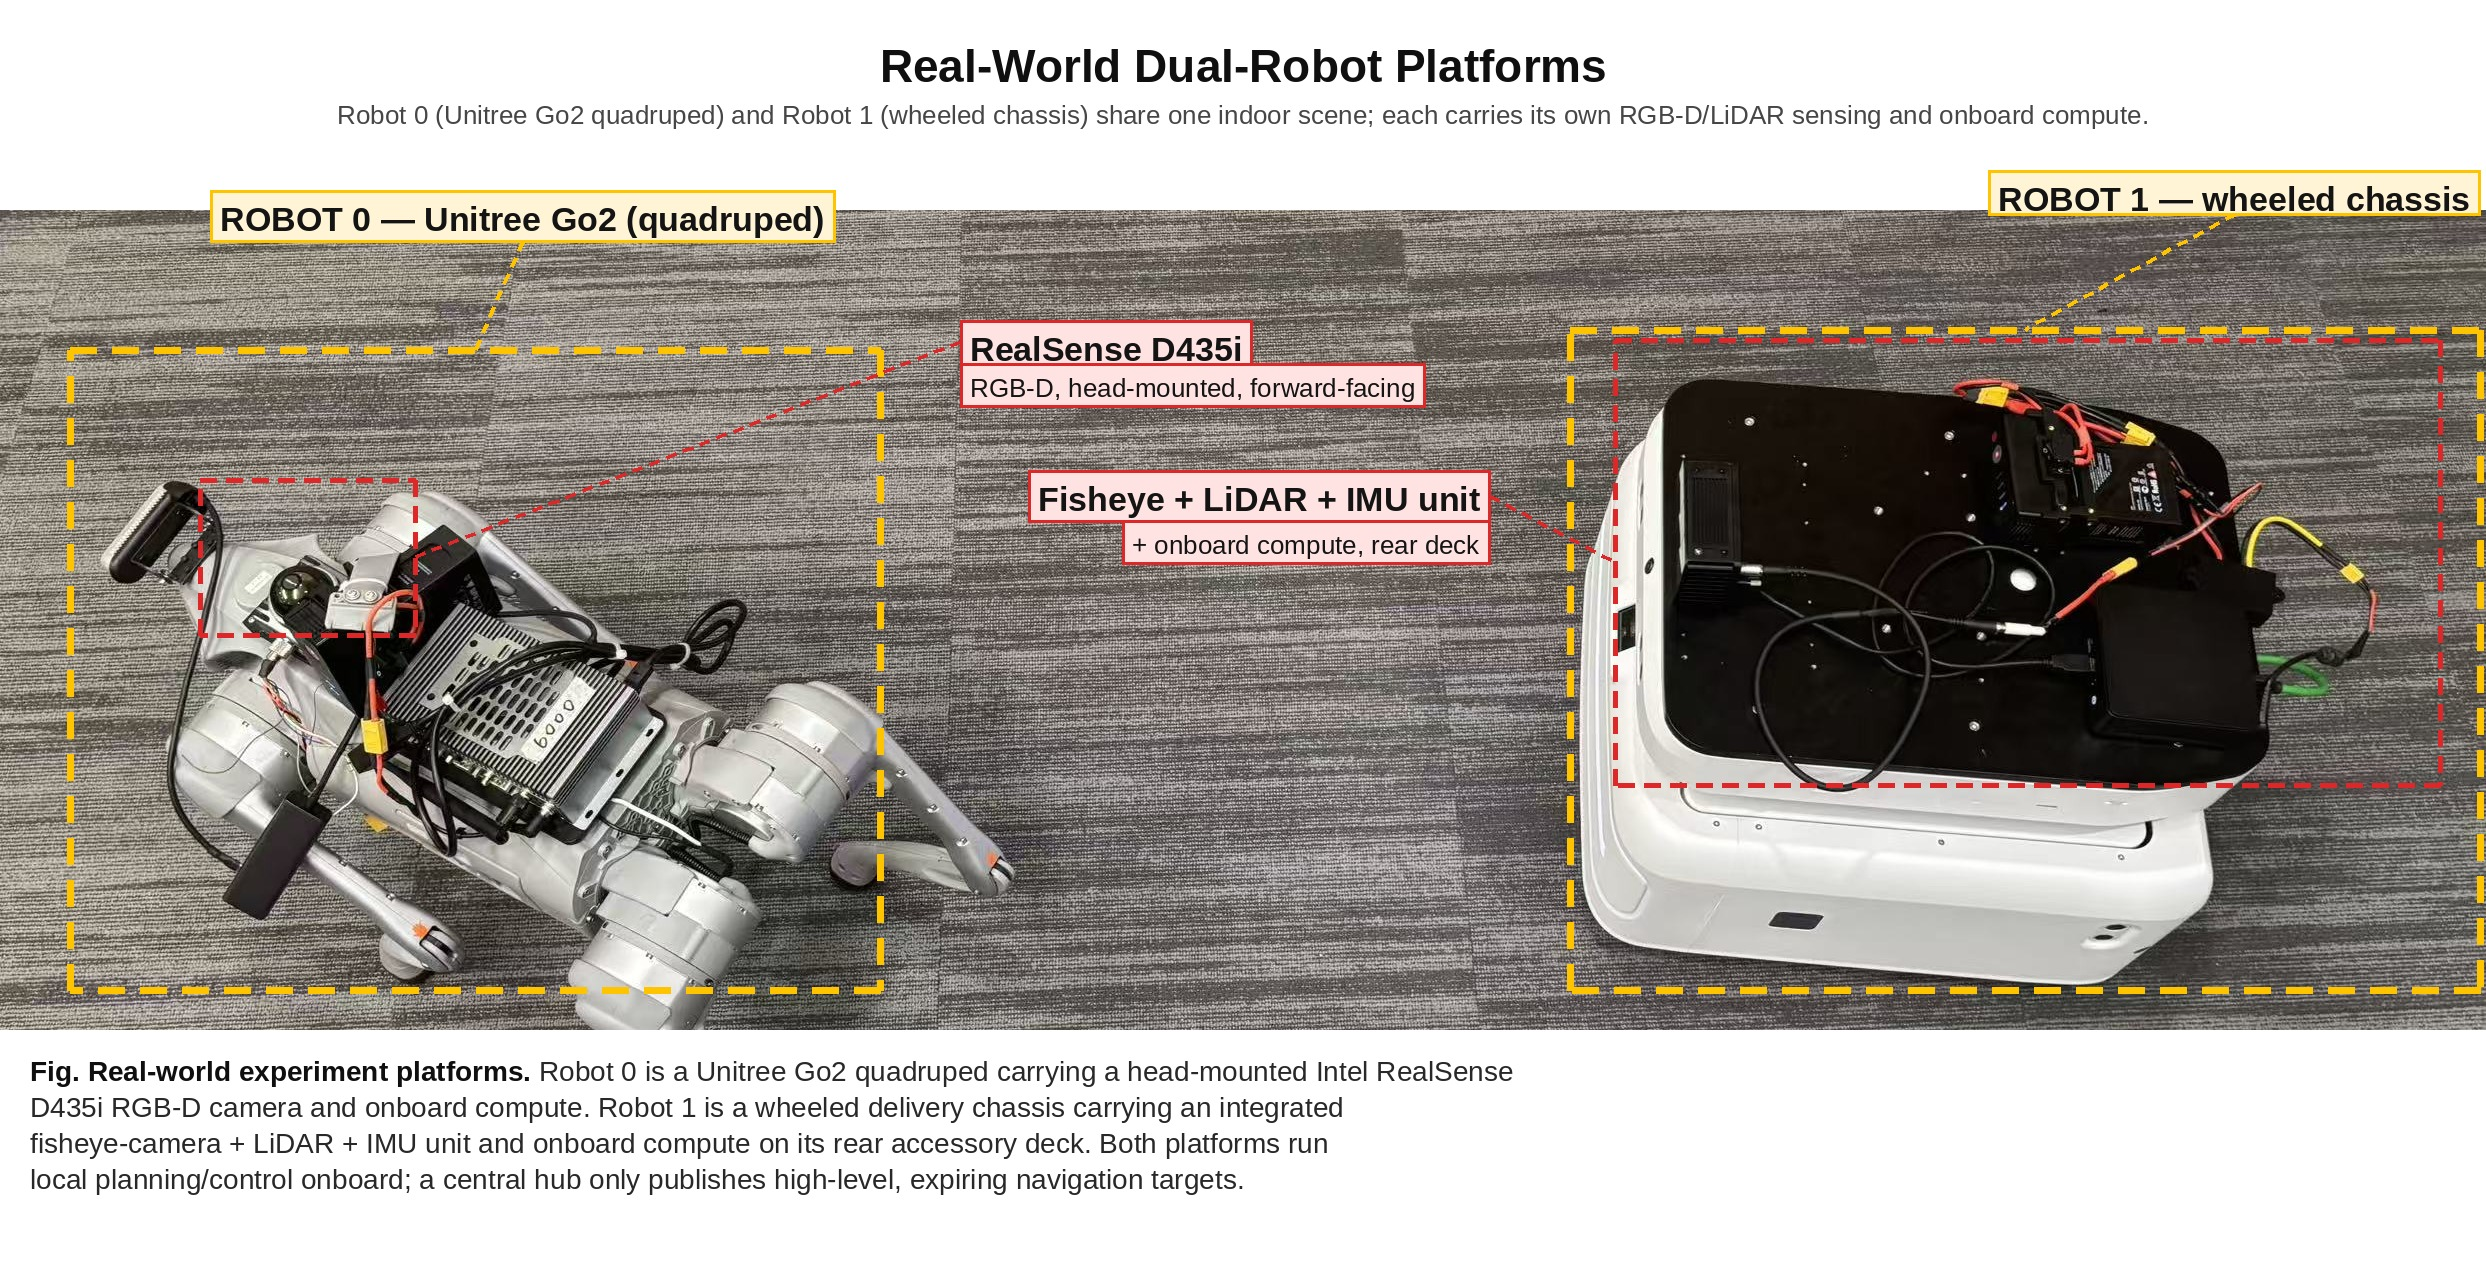
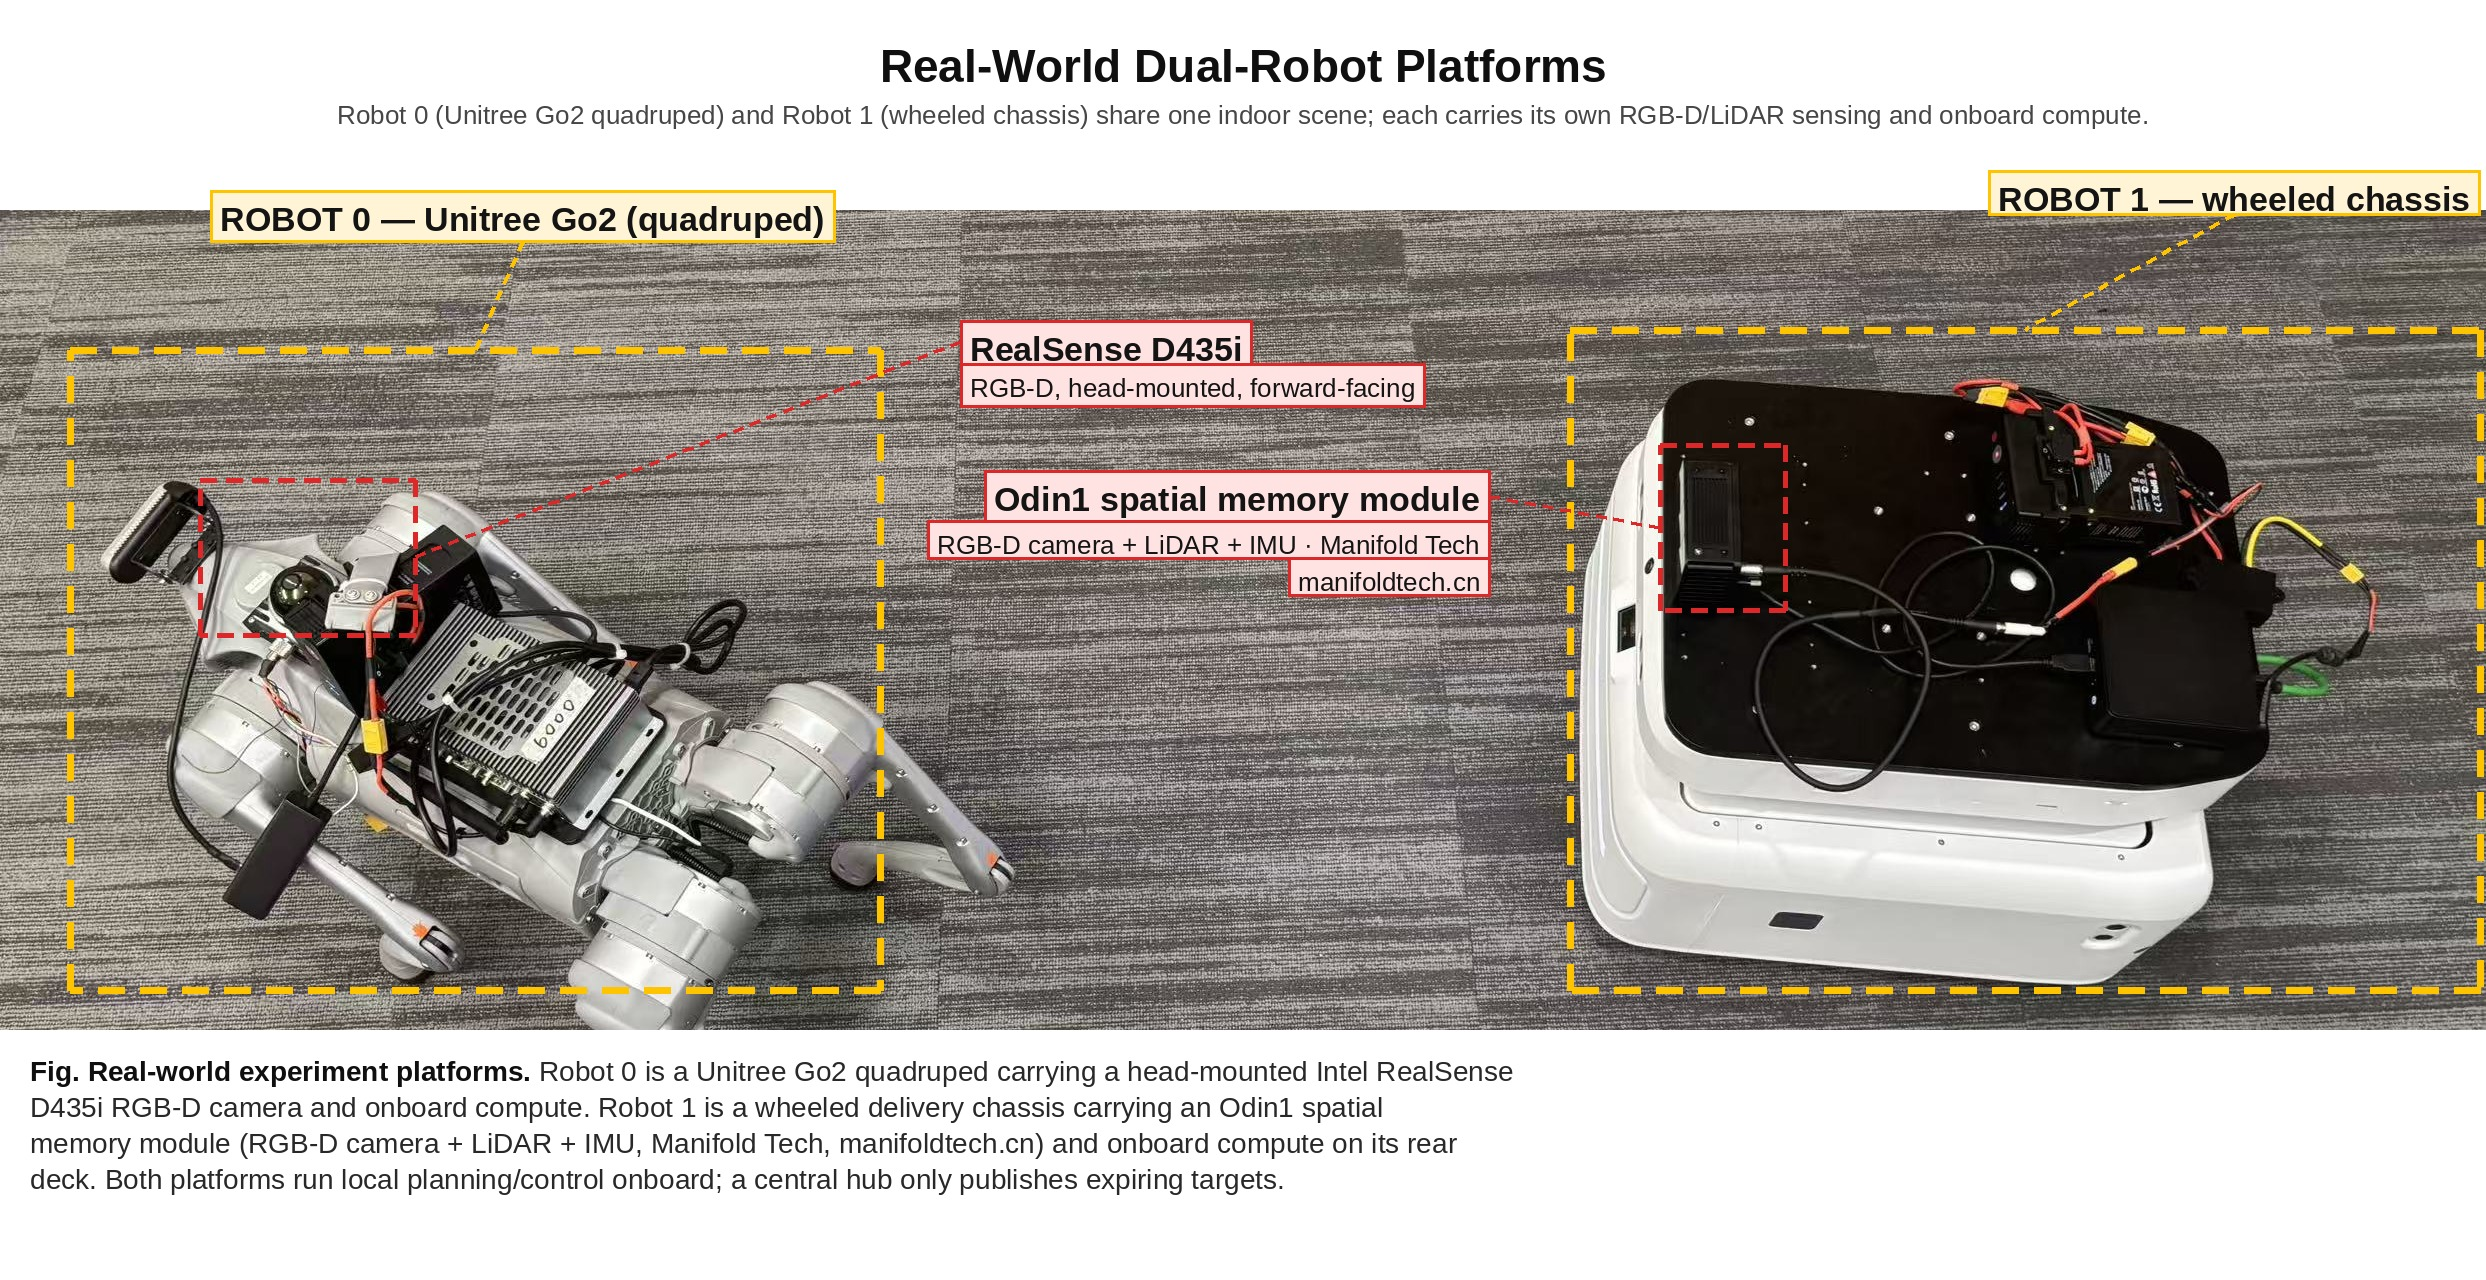
Correct Robot 1 sensor ID, add calibration figure, translate README
Point the Robot 1 callout at the specific Odin1 spatial memory module
(RGB-D camera + LiDAR + IMU, Manifold Tech) instead of the whole rear
deck, and drop the inaccurate "fisheye" description. Add a new
cross-robot calibration figure explaining the two-position
circle-grid board procedure. Translate the README fully to English.

diff --git a/README.md b/README.md
@@ -1,32 +1,51 @@
 # TopoFocus Real-World
 
-TopoFocus 的双机器人真机系统：GPU Hub 负责在线地图、语义理解、VLM
-决策与高层协调，Robot 0 和 Robot 1 在本地完成规划、控制与安全停止。
+TopoFocus's real-world dual-robot system: a GPU hub handles online mapping,
+semantic understanding, VLM decisions and high-level coordination, while
+Robot 0 and Robot 1 handle planning, control and safety stops locally.
 
-## 实验平台与设备
+## Experiment platforms and equipment
 
 <p align="center">
-  <img src="media/image/platforms_annotated.jpg" width="900" alt="Real-world dual-robot platforms: Robot 0 (Unitree Go2) with RealSense D435i, Robot 1 wheeled chassis with Odin1 fisheye+LiDAR+IMU">
+  <img src="media/image/platforms_annotated.jpg" width="900" alt="Real-world dual-robot platforms: Robot 0 (Unitree Go2) with RealSense D435i, Robot 1 wheeled chassis with an Odin1 spatial memory module">
 </p>
 
-- **Robot 0**：Unitree Go2 四足底盘（可复现的商用平台），头部前向搭载
-  Intel RealSense D435i RGB-D 相机与机载计算单元，用于实时建图与局部规划。
-- **Robot 1**：轮式配送底盘，后部搭载 Odin1 鱼眼相机 + 激光雷达 + IMU
-  一体式传感单元与机载计算单元。
-- 两台机器人均在本地完成路径规划、速度控制与安全停止；GPU Hub 只发布
-  带过期时间的高层语义导航目标，不直接下发底层速度指令。
+- **Robot 0**: a Unitree Go2 quadruped chassis (a reproducible commercial
+  platform), carrying a head-mounted, forward-facing Intel RealSense D435i
+  RGB-D camera and onboard compute for real-time mapping and local planning.
+- **Robot 1**: a wheeled delivery chassis, carrying an
+  [Odin1 spatial memory module](https://www.manifoldtech.cn/) (RGB-D camera
+  + LiDAR + IMU, by Manifold Tech) and onboard compute on its rear deck.
+- Both robots run path planning, velocity control and safety stops locally;
+  the GPU hub only publishes high-level, expiring semantic navigation
+  targets and never issues low-level velocity commands.
+
+## Cross-robot calibration
+
+<p align="center">
+  <img src="media/image/calibration_annotated.jpg" width="900" alt="Shared cross-robot calibration using a circle-grid board">
+</p>
+
+With both robots stationary, each robot's own camera captures one shared
+7×10 symmetric circle-grid board (40 mm spacing) and solves its pose by
+PnP; the two per-camera poses compose into a fixed transform between the
+robots' camera frames, registering their local odometry into one shared
+frame. The board is then moved by at least 10 cm or rotated by at least 5°
+and re-observed as an independent holdout — the calibration is accepted
+only if it also explains this second, independently moved observation.
 
 ## Scene 01 · Chair
 
-两台机器人从同一实验室起始区域协同探索并到达白色椅子。五次正式实验均
-成功。
+Both robots explore cooperatively from the same lab starting area and reach
+a white chair. All five formal experiments succeeded.
 
 | Trials | Success | SR | Mean source-compatible SPL | Mean Standard SPL |
 | ---: | ---: | ---: | ---: | ---: |
 | `5` | `5` | `1.0` | `0.726088` | `0.780993` |
 
-Standard SPL 使用独立测量的最短可行路径 `L≈3.25 m`；source-compatible
-SPL 使用成功机器人的起终点位移 `D` 作为源码兼容参考。
+Standard SPL uses the independently measured shortest feasible path
+`L≈3.25 m`; source-compatible SPL uses the arriving robot's start-to-arrival
+displacement `D` as a source-compatible reference.
 
 ### Real-robot rollouts
 
@@ -38,8 +57,9 @@ SPL 使用成功机器人的起终点位移 `D` 作为源码兼容参考。
       <img src="media/demo/scene01_formal_01_preview.gif" width="440" alt="Formal 01 rollout"><br>
       <small>Dashboard</small><br>
       <img src="media/demo/scene01_formal_01_dashboard.gif" width="440" alt="Formal 01 dashboard"><br>
-      Robot 0 先探索前沿，随后切换至 chair 语义区域并自动 ARRIVED；Robot 1
-      沿独立前沿推进后同步 HOLD。<br>
+      Robot 0 explores a frontier first, then switches to the chair semantic
+      region and auto-ARRIVED; Robot 1 advances along an independent
+      frontier and HOLDs in sync.<br>
       <a href="media/demo/scene01_formal_01_third_view.mp4">Third view</a> ·
       <a href="media/demo/scene01_formal_01_dashboard.mp4">Dashboard</a>
     </td>
@@ -49,8 +69,9 @@ SPL 使用成功机器人的起终点位移 `D` 作为源码兼容参考。
       <img src="media/demo/scene01_formal_02_preview.gif" width="440" alt="Formal 02 rollout"><br>
       <small>Dashboard</small><br>
       <img src="media/demo/scene01_formal_02_dashboard.gif" width="440" alt="Formal 02 dashboard"><br>
-      Robot 0 完成前沿探索后进入 chair 语义区域并自动 ARRIVED；Robot 1
-      由协调器保持近静止。<br>
+      Robot 0 finishes frontier exploration and enters the chair semantic
+      region, auto-ARRIVED; Robot 1 is held near-stationary by the
+      coordinator.<br>
       <a href="media/demo/scene01_formal_02_third_view.mp4">Third view</a> ·
       <a href="media/demo/scene01_formal_02_dashboard.mp4">Dashboard</a>
     </td>
@@ -62,8 +83,9 @@ SPL 使用成功机器人的起终点位移 `D` 作为源码兼容参考。
       <img src="media/demo/scene01_formal_03_preview.gif" width="440" alt="Formal 03 rollout"><br>
       <small>Dashboard</small><br>
       <img src="media/demo/scene01_formal_03_dashboard.gif" width="440" alt="Formal 03 dashboard"><br>
-      Robot 0 完成首轮前沿探索；Robot 1 接力探索并驶入 chair 的
-      0.5 m 成功区域，由操作者确认到达。<br>
+      Robot 0 completes an initial round of frontier exploration; Robot 1
+      relays exploration and enters the chair's 0.5 m success region,
+      confirmed on arrival by the operator.<br>
       <a href="media/demo/scene01_formal_03_third_view.mp4">Third view</a> ·
       <a href="media/demo/scene01_formal_03_dashboard.mp4">Dashboard</a>
     </td>
@@ -73,8 +95,9 @@ SPL 使用成功机器人的起终点位移 `D` 作为源码兼容参考。
       <img src="media/demo/scene01_formal_04_preview.gif" width="440" alt="Formal 04 rollout"><br>
       <small>Dashboard</small><br>
       <img src="media/demo/scene01_formal_04_dashboard.gif" width="440" alt="Formal 04 dashboard"><br>
-      双机交替并行探索；Robot 1 切换至 chair 语义区域并自动 ARRIVED，
-      Robot 0 完成独立前沿后同步 HOLD。<br>
+      Both robots explore in alternating parallel rounds; Robot 1 switches
+      to the chair semantic region and auto-ARRIVED, while Robot 0 finishes
+      its independent frontier and HOLDs in sync.<br>
       <a href="media/demo/scene01_formal_04_third_view.mp4">Third view</a> ·
       <a href="media/demo/scene01_formal_04_dashboard.mp4">Dashboard</a>
     </td>
@@ -86,8 +109,8 @@ SPL 使用成功机器人的起终点位移 `D` 作为源码兼容参考。
       <img src="media/demo/scene01_formal_05_preview.gif" width="440" alt="Formal 05 rollout"><br>
       <small>Dashboard</small><br>
       <img src="media/demo/scene01_formal_05_dashboard.gif" width="440" alt="Formal 05 dashboard"><br>
-      Robot 0 完成前沿探索并持续导航至 chair 后自动 ARRIVED；Robot 1
-      按路径协调保持 HOLD。<br>
+      Robot 0 finishes frontier exploration and continuously navigates to
+      the chair, auto-ARRIVED; Robot 1 HOLDs under route coordination.<br>
       <a href="media/demo/scene01_formal_05_third_view.mp4">Third view</a> ·
       <a href="media/demo/scene01_formal_05_dashboard.mp4">Dashboard</a>
     </td>
@@ -104,7 +127,7 @@ SPL 使用成功机器人的起终点位移 `D` 作为源码兼容参考。
 | Formal 04 | Robot 1 | `3.210222 m` | `0.956361` | `1.000000` |
 | Formal 05 | Robot 0 | `12.582981 m` | `0.288722` | `0.258285` |
 
-[完整五次实验归档](audit/SCENE01_CHAIR_FORMAL_EXPERIMENTS_01_05_20260725.md)
-· [机器可读结果](manifests/scene01_chair_formal_experiments_20260725.json)
-· [媒体清单](media/README.md)
-· [运行说明](hub/docs/ONECLICK_SESSION_WORKFLOW.md)
+[Full five-experiment archive](audit/SCENE01_CHAIR_FORMAL_EXPERIMENTS_01_05_20260725.md)
+· [Machine-readable results](manifests/scene01_chair_formal_experiments_20260725.json)
+· [Media manifest](media/README.md)
+· [Run instructions](hub/docs/ONECLICK_SESSION_WORKFLOW.md)
